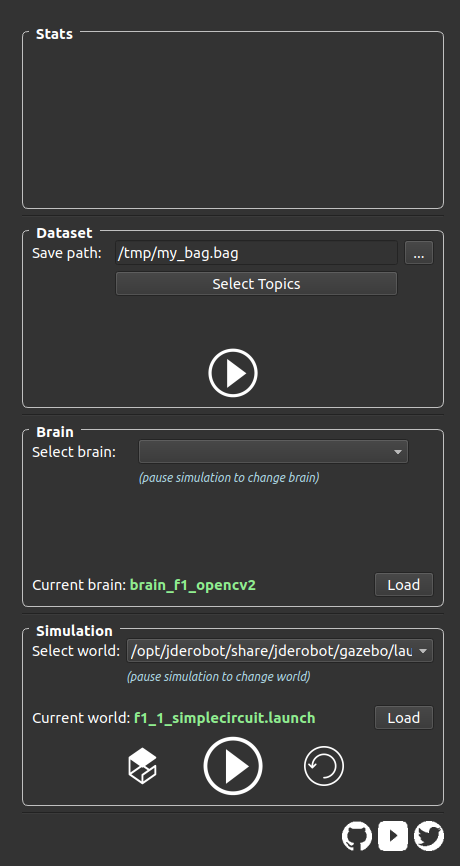
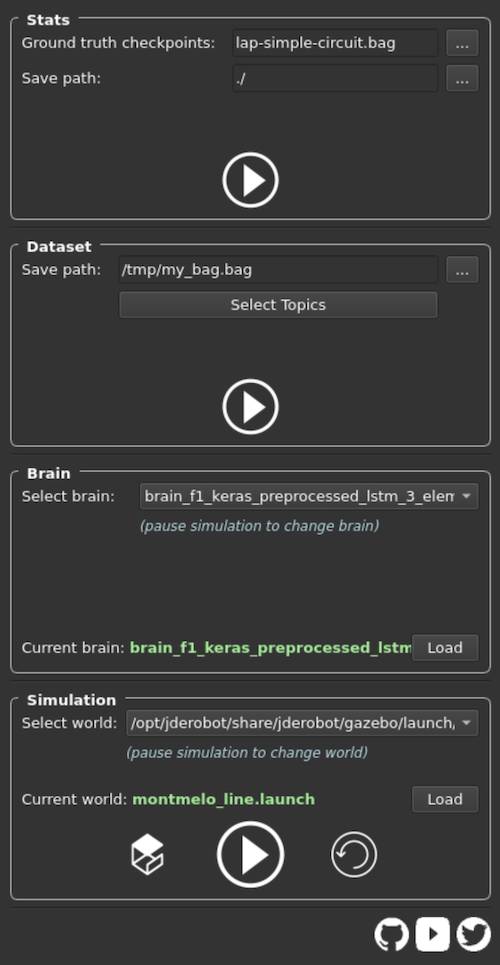
Added informatino about showing plots

diff --git a/_pages/quick_start/quick_start.md b/_pages/quick_start/quick_start.md
@@ -34,6 +34,10 @@ gallery6:
   - url: /assets/images/toolbar.png
     image_path: /assets/images/toolbar.png
     alt: ""
+gallery6.1:
+  - url: /assets/images/stats.png
+    image_path: /assets/images/stats.png
+    alt: ""
 gallery7:
   - url: /assets/images/dataset.png
     image_path: /assets/images/dataset.png
@@ -271,11 +275,23 @@ You will see 2 different sections, one on the left: **the toolbar**, and another
 
 You have all the tools needed for controlling the whole application, simulation and control of the application. For usability sake, this section is subdivided in 4 different subsections: **stats, dataset, brains** and **simulation**.
 
-{% include gallery id="gallery6" caption="" %}
+{% include gallery id="gallery6" caption="" width: 200px;%}
 
 **Stats**
 
-[WIP]
+
+You can save metrics from the brain with the stats functionality. For saving, press play while the brain is running and 
+press again to finish. After that, a general view of the stats should appear. For further detail, run the `show_plots.py` script:
+
+```
+    python3 show_plots.py -b [bag_name].bag -b [bag_name].bag
+``` 
+
+This script will load further information related with the execution.
+
+
+{% include gallery id="gallery6.1" caption=""%}
+
 
 **Dataset**
 
